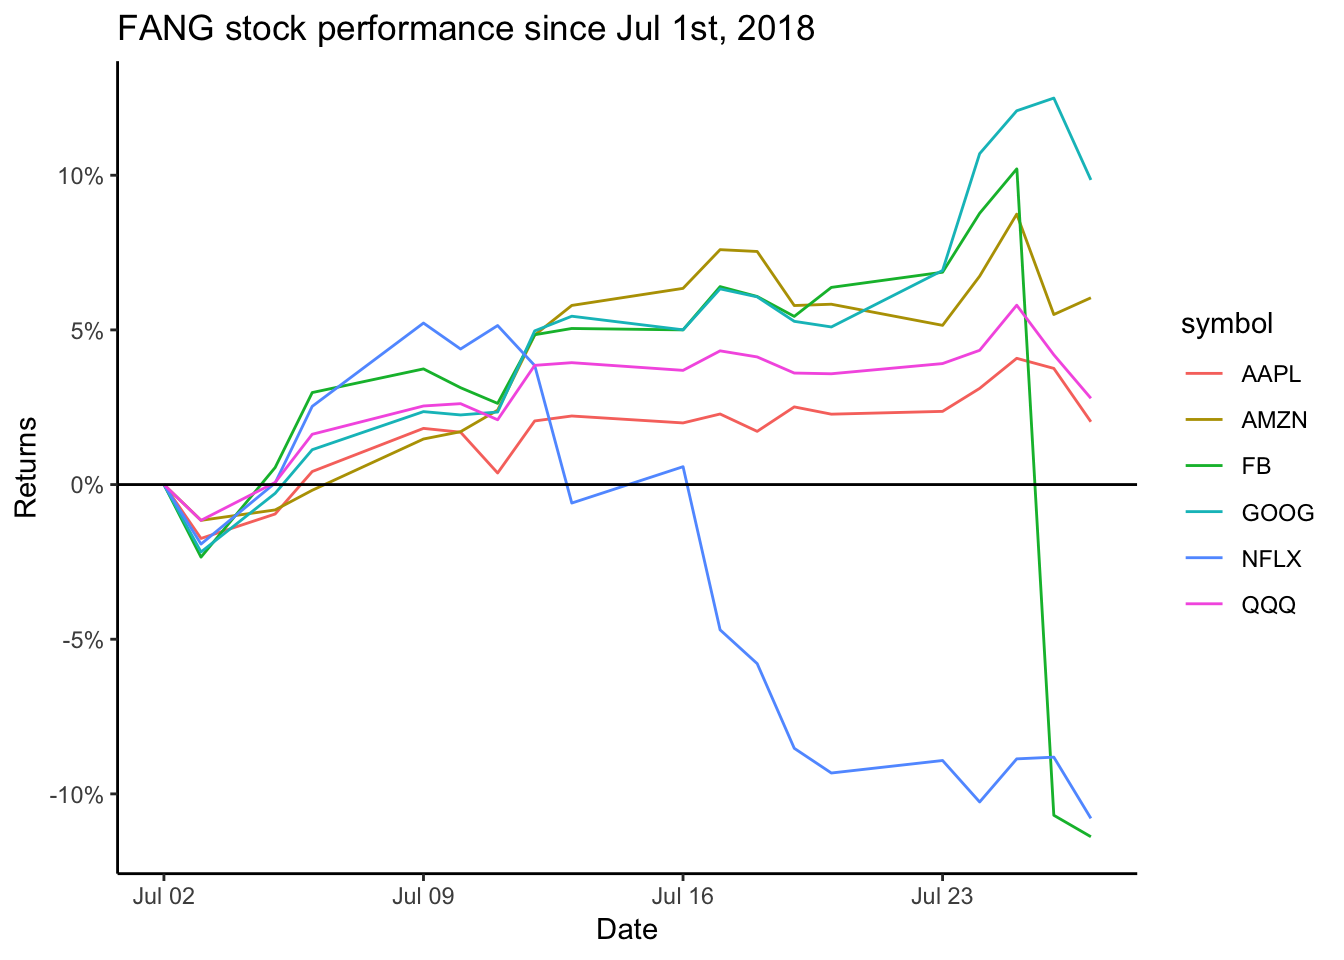
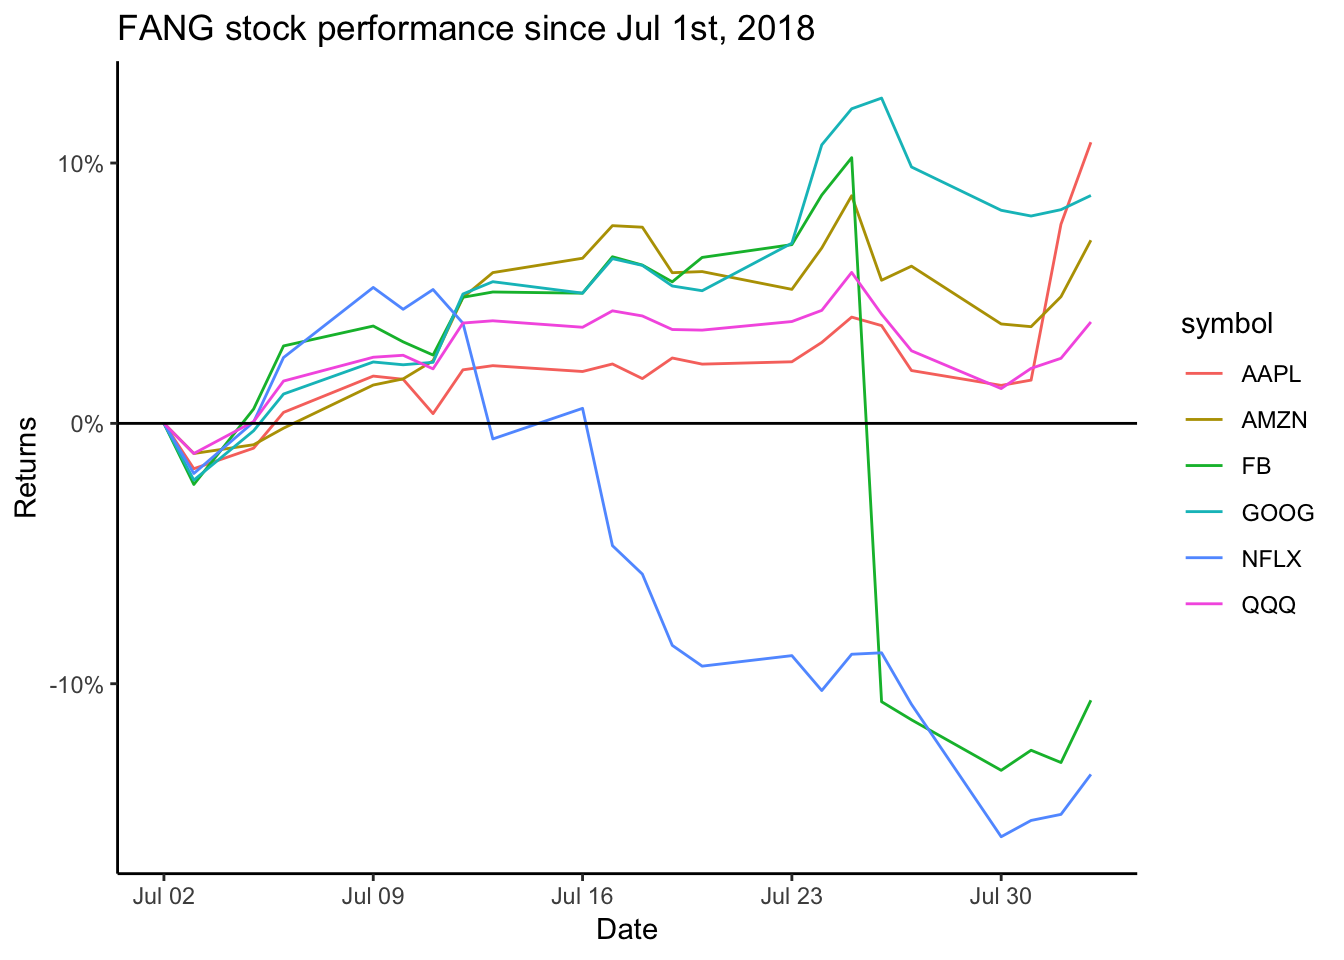
fang ret post

diff --git a/public/tags/stocks/index.html b/public/tags/stocks/index.html
@@ -2,14 +2,14 @@
 <html lang="en">
 <head>
   
-    <title>Bond Market :: Green Leaf</title>
+    <title>Stocks :: Green Leaf</title>
   
   <meta http-equiv="content-type" content="text/html; charset=utf-8">
 <meta name="viewport" content="width=device-width, initial-scale=1.0, maximum-scale=1">
 <meta name="description" content=""/>
 <meta name="keywords" content=""/>
 <meta name="robots" content="noodp"/>
-<link rel="canonical" href="/post/bond/" />
+<link rel="canonical" href="/tags/stocks/" />
 
 
 <link rel="stylesheet" href="/assets/style.css">
@@ -25,27 +25,28 @@
 
 
 <meta name="twitter:card" content="summary" />
-<meta name="twitter:title" content="Bond Market :: Green Leaf — " />
-<meta name="twitter:description" content="Year 2018 has not been a good one for the bond investors. Since the summer of 2017, interest rates have been rising.
-The long term interest rates had been trending lower since 1980s. In the chart above rates reached a high of 8% and since then they kept making lower lows. Currently the ten year rates are near the an important key level at 3%. From here the future path interest will decide which way the trend moves." />
+<meta name="twitter:title" content="Stocks :: Green Leaf — " />
+<meta name="twitter:description" content="" />
 <meta name="twitter:site" content="" />
 <meta name="twitter:creator" content="" />
-<meta name="twitter:image" content="/img/post/int charts-1.png">
+<meta name="twitter:image" content="/img/default.jpg">
 
 
 <meta property="og:locale" content="en" />
-<meta property="og:type" content="article" />
-<meta property="og:title" content="Bond Market :: Green Leaf — ">
+<meta property="og:type" content="website" />
+<meta property="og:title" content="Stocks :: Green Leaf — ">
 <meta property="og:description" content="" />
-<meta property="og:url" content="/post/bond/" />
-<meta property="og:site_name" content="Bond Market" />
-<meta property="og:image" content="/img/post/int charts-1.png">
+<meta property="og:url" content="/tags/stocks/" />
+<meta property="og:site_name" content="Stocks" />
+<meta property="og:image" content="/img/default.jpg">
 <meta property="og:image:width" content="2048">
 <meta property="og:image:height" content="1024">
 
-<meta property="article:published_time" content="2018-07-26 00:00:00 &#43;0000 UTC" />
 
 
+
+
+<link href="/index.xml" rel="alternate" type="application/rss+xml" title="Green Leaf" />
 
 
 
@@ -105,50 +106,42 @@ The long term interest rates had been trending lower since 1980s. In the chart a
 
   <div class="content">
     
-  <div class="post">
-    <h2 class="post-title"><a href="/post/bond/">Bond Market</a></h2>
-    <div class="post-meta">
-      <span class="post-date">
-        7/26/2018
-      </span>
-      <span class="post-author">Written by Team Green</span>
-    </div>
-
+  <div class="posts">
     
-      <span class="post-tags">
-        
-          #<a href="/tags/market">market</a>&nbsp;
-        
-      </span>
     
-
-    
-      <img src="/img/int%20charts-1.png" class="post-cover" />
-    
-
-    <div class="post-content">
-      <p><img src="/post/2018-07-26-bond_files/figure-html/ten%20yr-1.png" width="672" /></p>
-<p>Year 2018 has not been a good one for the bond investors. Since the summer of 2017, interest rates have been rising.</p>
-<p>The long term interest rates had been trending lower since 1980s. In the chart above rates reached a high of 8% and since then they kept making lower lows. Currently the ten year rates are near the an important key level at 3%. From here the future path interest will decide which way the trend moves. Do we break out of the 3% resistance level? or do we fade back lower? It will be interesting to see.</p>
-<p>Below are the bond performance for different maturities. Even though the rates were trending lower, there were a few years when bonds suffered negative returns. Similarly it is possible that even if interest rates trend higher, we could get some years where bonds give positive returns.</p>
-<p><img src="/post/2018-07-26-bond_files/figure-html/int%20charts-1.png" width="672" /></p>
-<p><img src="/post/2018-07-26-bond_files/figure-html/lng%20charts-1.png" width="672" /></p>
-
-    </div>
-    
-      <div class="pagination">
-        <div class="pagination__title">
-          <span class="pagination__title-h">Read other posts</span>
-          <hr />
-        </div>
-        <div class="pagination__buttons">
-          
-          
-            <a class="btn previous" href="/post/fang/">FANG Stocks →</a>
-           
-        </div>
+    <div class="post on-list">
+      <h1 class="post-title"><a href="/post/fang/">FANG Stocks</a></h1>
+      <div class="post-meta">
+        <span class="post-date">
+          7/26/2018
+        </span>
+        <span class="post-author">Written by Team Green</span>
       </div>
+
+      
+        <span class="post-tags">
+          
+            #<a href="/tags/stocks">stocks</a>&nbsp;
+          
+        </span>
+      
+
+      
+
+      <div class="post-content">
+        
+          FANG Performance
+        
+      </div>
+      <div><a class="read-more button" href="/post/fang/">Read more →</a></div>
+    </div>
     
+    <div class="pagination">
+  <div class="pagination__buttons">
+    
+    
+  </div>
+</div>
   </div>
 
   </div>

diff --git a/public/post/fang/index.html b/public/post/fang/index.html
@@ -2,14 +2,14 @@
 <html lang="en">
 <head>
   
-    <title>Bond Market :: Green Leaf</title>
+    <title>FANG Stocks :: Green Leaf</title>
   
   <meta http-equiv="content-type" content="text/html; charset=utf-8">
 <meta name="viewport" content="width=device-width, initial-scale=1.0, maximum-scale=1">
 <meta name="description" content=""/>
 <meta name="keywords" content=""/>
 <meta name="robots" content="noodp"/>
-<link rel="canonical" href="/post/bond/" />
+<link rel="canonical" href="/post/fang/" />
 
 
 <link rel="stylesheet" href="/assets/style.css">
@@ -25,21 +25,20 @@
 
 
 <meta name="twitter:card" content="summary" />
-<meta name="twitter:title" content="Bond Market :: Green Leaf — " />
-<meta name="twitter:description" content="Year 2018 has not been a good one for the bond investors. Since the summer of 2017, interest rates have been rising.
-The long term interest rates had been trending lower since 1980s. In the chart above rates reached a high of 8% and since then they kept making lower lows. Currently the ten year rates are near the an important key level at 3%. From here the future path interest will decide which way the trend moves." />
+<meta name="twitter:title" content="FANG Stocks :: Green Leaf — " />
+<meta name="twitter:description" content="FAANG stock performance since July 1, 2018" />
 <meta name="twitter:site" content="" />
 <meta name="twitter:creator" content="" />
-<meta name="twitter:image" content="/img/post/int charts-1.png">
+<meta name="twitter:image" content="/img/default.jpg">
 
 
 <meta property="og:locale" content="en" />
 <meta property="og:type" content="article" />
-<meta property="og:title" content="Bond Market :: Green Leaf — ">
+<meta property="og:title" content="FANG Stocks :: Green Leaf — ">
 <meta property="og:description" content="" />
-<meta property="og:url" content="/post/bond/" />
-<meta property="og:site_name" content="Bond Market" />
-<meta property="og:image" content="/img/post/int charts-1.png">
+<meta property="og:url" content="/post/fang/" />
+<meta property="og:site_name" content="FANG Stocks" />
+<meta property="og:image" content="/img/default.jpg">
 <meta property="og:image:width" content="2048">
 <meta property="og:image:height" content="1024">
 
@@ -106,7 +105,7 @@ The long term interest rates had been trending lower since 1980s. In the chart a
   <div class="content">
     
   <div class="post">
-    <h2 class="post-title"><a href="/post/bond/">Bond Market</a></h2>
+    <h2 class="post-title"><a href="/post/fang/">FANG Stocks</a></h2>
     <div class="post-meta">
       <span class="post-date">
         7/26/2018
@@ -117,22 +116,16 @@ The long term interest rates had been trending lower since 1980s. In the chart a
     
       <span class="post-tags">
         
-          #<a href="/tags/market">market</a>&nbsp;
+          #<a href="/tags/stocks">stocks</a>&nbsp;
         
       </span>
     
 
     
-      <img src="/img/int%20charts-1.png" class="post-cover" />
-    
 
     <div class="post-content">
-      <p><img src="/post/2018-07-26-bond_files/figure-html/ten%20yr-1.png" width="672" /></p>
-<p>Year 2018 has not been a good one for the bond investors. Since the summer of 2017, interest rates have been rising.</p>
-<p>The long term interest rates had been trending lower since 1980s. In the chart above rates reached a high of 8% and since then they kept making lower lows. Currently the ten year rates are near the an important key level at 3%. From here the future path interest will decide which way the trend moves. Do we break out of the 3% resistance level? or do we fade back lower? It will be interesting to see.</p>
-<p>Below are the bond performance for different maturities. Even though the rates were trending lower, there were a few years when bonds suffered negative returns. Similarly it is possible that even if interest rates trend higher, we could get some years where bonds give positive returns.</p>
-<p><img src="/post/2018-07-26-bond_files/figure-html/int%20charts-1.png" width="672" /></p>
-<p><img src="/post/2018-07-26-bond_files/figure-html/lng%20charts-1.png" width="672" /></p>
+      <p>FAANG stock performance since July 1, 2018</p>
+<p><img src="/post/fang_rets_jul2018_files/figure-html/chart-1.png" width="672" /></p>
 
     </div>
     
@@ -143,8 +136,10 @@ The long term interest rates had been trending lower since 1980s. In the chart a
         </div>
         <div class="pagination__buttons">
           
+            <a class="btn next" href="/post/bond/">← Bond Market</a>
           
-            <a class="btn previous" href="/post/fang/">FANG Stocks →</a>
+          
+            <a class="btn previous" href="/post/facebook-idea/">Facebook disappoints! Stock down 20% →</a>
            
         </div>
       </div>

diff --git a/public/index.html b/public/index.html
@@ -111,27 +111,6 @@
     
     
     <div class="post on-list">
-      <h1 class="post-title"><a href="/post/fang_rets_jul2018/">FAANG stocks</a></h1>
-      <div class="post-meta">
-        <span class="post-date">
-          7/30/2018
-        </span>
-        <span class="post-author">Written by Team Green</span>
-      </div>
-
-      
-
-      
-
-      <div class="post-content">
-        
-          
-        
-      </div>
-      <div><a class="read-more button" href="/post/fang_rets_jul2018/">Read more →</a></div>
-    </div>
-    
-    <div class="post on-list">
       <h1 class="post-title"><a href="/post/bond/">Bond Market</a></h1>
       <div class="post-meta">
         <span class="post-date">
@@ -158,6 +137,33 @@
         
       </div>
       <div><a class="read-more button" href="/post/bond/">Read more →</a></div>
+    </div>
+    
+    <div class="post on-list">
+      <h1 class="post-title"><a href="/post/fang/">FANG Stocks</a></h1>
+      <div class="post-meta">
+        <span class="post-date">
+          7/26/2018
+        </span>
+        <span class="post-author">Written by Team Green</span>
+      </div>
+
+      
+        <span class="post-tags">
+          
+            #<a href="/tags/stocks">stocks</a>&nbsp;
+          
+        </span>
+      
+
+      
+
+      <div class="post-content">
+        
+          FANG Performance
+        
+      </div>
+      <div><a class="read-more button" href="/post/fang/">Read more →</a></div>
     </div>
     
     <div class="post on-list">

diff --git a/public/post/index.html b/public/post/index.html
@@ -110,27 +110,6 @@
     
     
     <div class="post on-list">
-      <h1 class="post-title"><a href="/post/fang_rets_jul2018/">FAANG stocks</a></h1>
-      <div class="post-meta">
-        <span class="post-date">
-          7/30/2018
-        </span>
-        <span class="post-author">Written by Team Green</span>
-      </div>
-
-      
-
-      
-
-      <div class="post-content">
-        
-          
-        
-      </div>
-      <div><a class="read-more button" href="/post/fang_rets_jul2018/">Read more →</a></div>
-    </div>
-    
-    <div class="post on-list">
       <h1 class="post-title"><a href="/post/bond/">Bond Market</a></h1>
       <div class="post-meta">
         <span class="post-date">
@@ -157,6 +136,33 @@
         
       </div>
       <div><a class="read-more button" href="/post/bond/">Read more →</a></div>
+    </div>
+    
+    <div class="post on-list">
+      <h1 class="post-title"><a href="/post/fang/">FANG Stocks</a></h1>
+      <div class="post-meta">
+        <span class="post-date">
+          7/26/2018
+        </span>
+        <span class="post-author">Written by Team Green</span>
+      </div>
+
+      
+        <span class="post-tags">
+          
+            #<a href="/tags/stocks">stocks</a>&nbsp;
+          
+        </span>
+      
+
+      
+
+      <div class="post-content">
+        
+          FANG Performance
+        
+      </div>
+      <div><a class="read-more button" href="/post/fang/">Read more →</a></div>
     </div>
     
     <div class="post on-list">

diff --git a/public/post/facebook-idea/index.html b/public/post/facebook-idea/index.html
@@ -317,7 +317,7 @@ FB180921P00165000
         </div>
         <div class="pagination__buttons">
           
-            <a class="btn next" href="/post/bond/">← Bond Market</a>
+            <a class="btn next" href="/post/fang/">← FANG Stocks</a>
           
           
             <a class="btn previous" href="/post/int_rates/">Interest Rates and Bear Markets →</a>

diff --git a/public/tags/stocks/page/1/index.html b/public/tags/stocks/page/1/index.html
@@ -1,0 +1,1 @@
+<!DOCTYPE html><html><head><title>/tags/stocks/</title><link rel="canonical" href="/tags/stocks/"/><meta name="robots" content="noindex"><meta http-equiv="content-type" content="text/html; charset=utf-8" /><meta http-equiv="refresh" content="0; url=/tags/stocks/" /></head></html>

diff --git a/content/post/fang_rets_jul2018.html b/content/post/fang_rets_jul2018.html
@@ -1,8 +1,13 @@
 ---
-title: "FAANG stocks"
-output: html_document
-date: "2018-07-30"
-author: "Team Green"
+title: "FANG Stocks"
+author: 'Team Green'
+date: '2018-07-26'
+slug: FANG
+description: "FANG Performance"
+cover: ""
+categories: []
+tags:
+  - stocks
 ---
 
 
